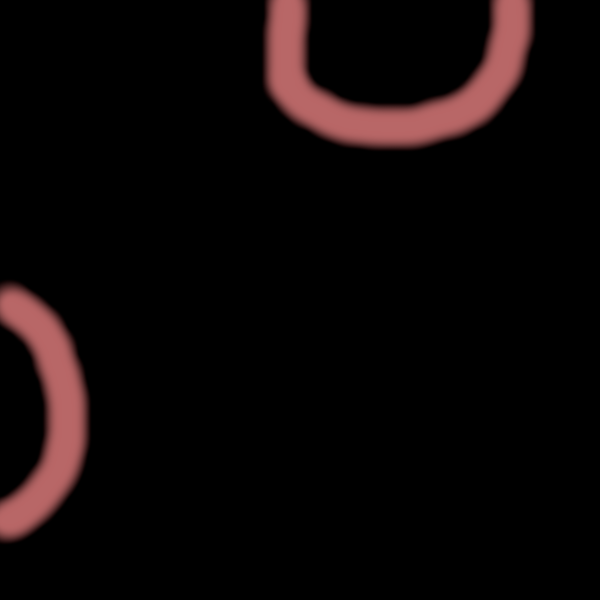
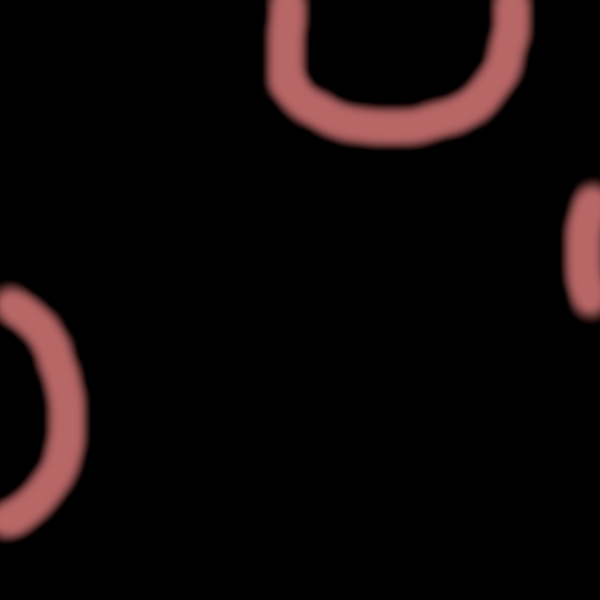
map-generator/turtle_rays.py: generating trees

Changed region(s): [[0.93, 0.3, 1.0, 0.54]]

diff --git a/map-generator/turtle_rays.py b/map-generator/turtle_rays.py
@@ -12,6 +12,7 @@ E.g.::
     )
 """
 import math
+import pathlib
 import random
 import tempfile
 import turtle
@@ -42,6 +43,17 @@ PROBABILITY_BRIDGE_SINGLE = 0.5
 
 
 class Tree:
+    @classmethod
+    def generate(cls, *, is_last):
+        branches = [0] * random.randint(2, 4)
+        for i in range(0, len(branches), 1 if is_last else 2):
+            branches[i] = random.randint(0, 5)
+
+        heading_horizontal = random.randint(150, 180)
+        heading_vertical = 90
+
+        return Tree(branches, heading_horizontal, heading_vertical)
+
     def __init__(self, branches, heading_horizontal=180, heading_vertical=90):
         self.branches = branches
         self.heading_horizontal = heading_horizontal
@@ -300,11 +312,8 @@ def generate_map(filename_map_png):
 
     drawer = Drawer(t, occupied_pixels, image.width, image.height)
 
-    trees = [
-        Tree([5, 0, 2], 150, 90),
-        Tree([3, 0, 2], 185, 90),
-        Tree([5, 4, 3, 2], 150, 90),
-    ]
+    num_trees = 2
+    trees = [Tree.generate(is_last=i == num_trees - 1) for i in range(num_trees)]
 
     for i_tree, tree in enumerate(trees):
         tree.check(i_tree == len(trees) - 1)
@@ -324,9 +333,16 @@ def generate_map(filename_map_png):
 def main():
     random.seed(1)
 
+    path_maps = pathlib.Path('generated-maps')
+    if not path_maps.exists():
+        path_maps.mkdir()
+    else:
+        for path in path_maps.iterdir():
+            path.unlink()
+
     num_maps = 5
     for i in range(1, num_maps + 1):
-        generate_map(f'map{i}.png')
+        generate_map(str(path_maps / f'map{i}.png'))
 
 
 if __name__ == '__main__':
